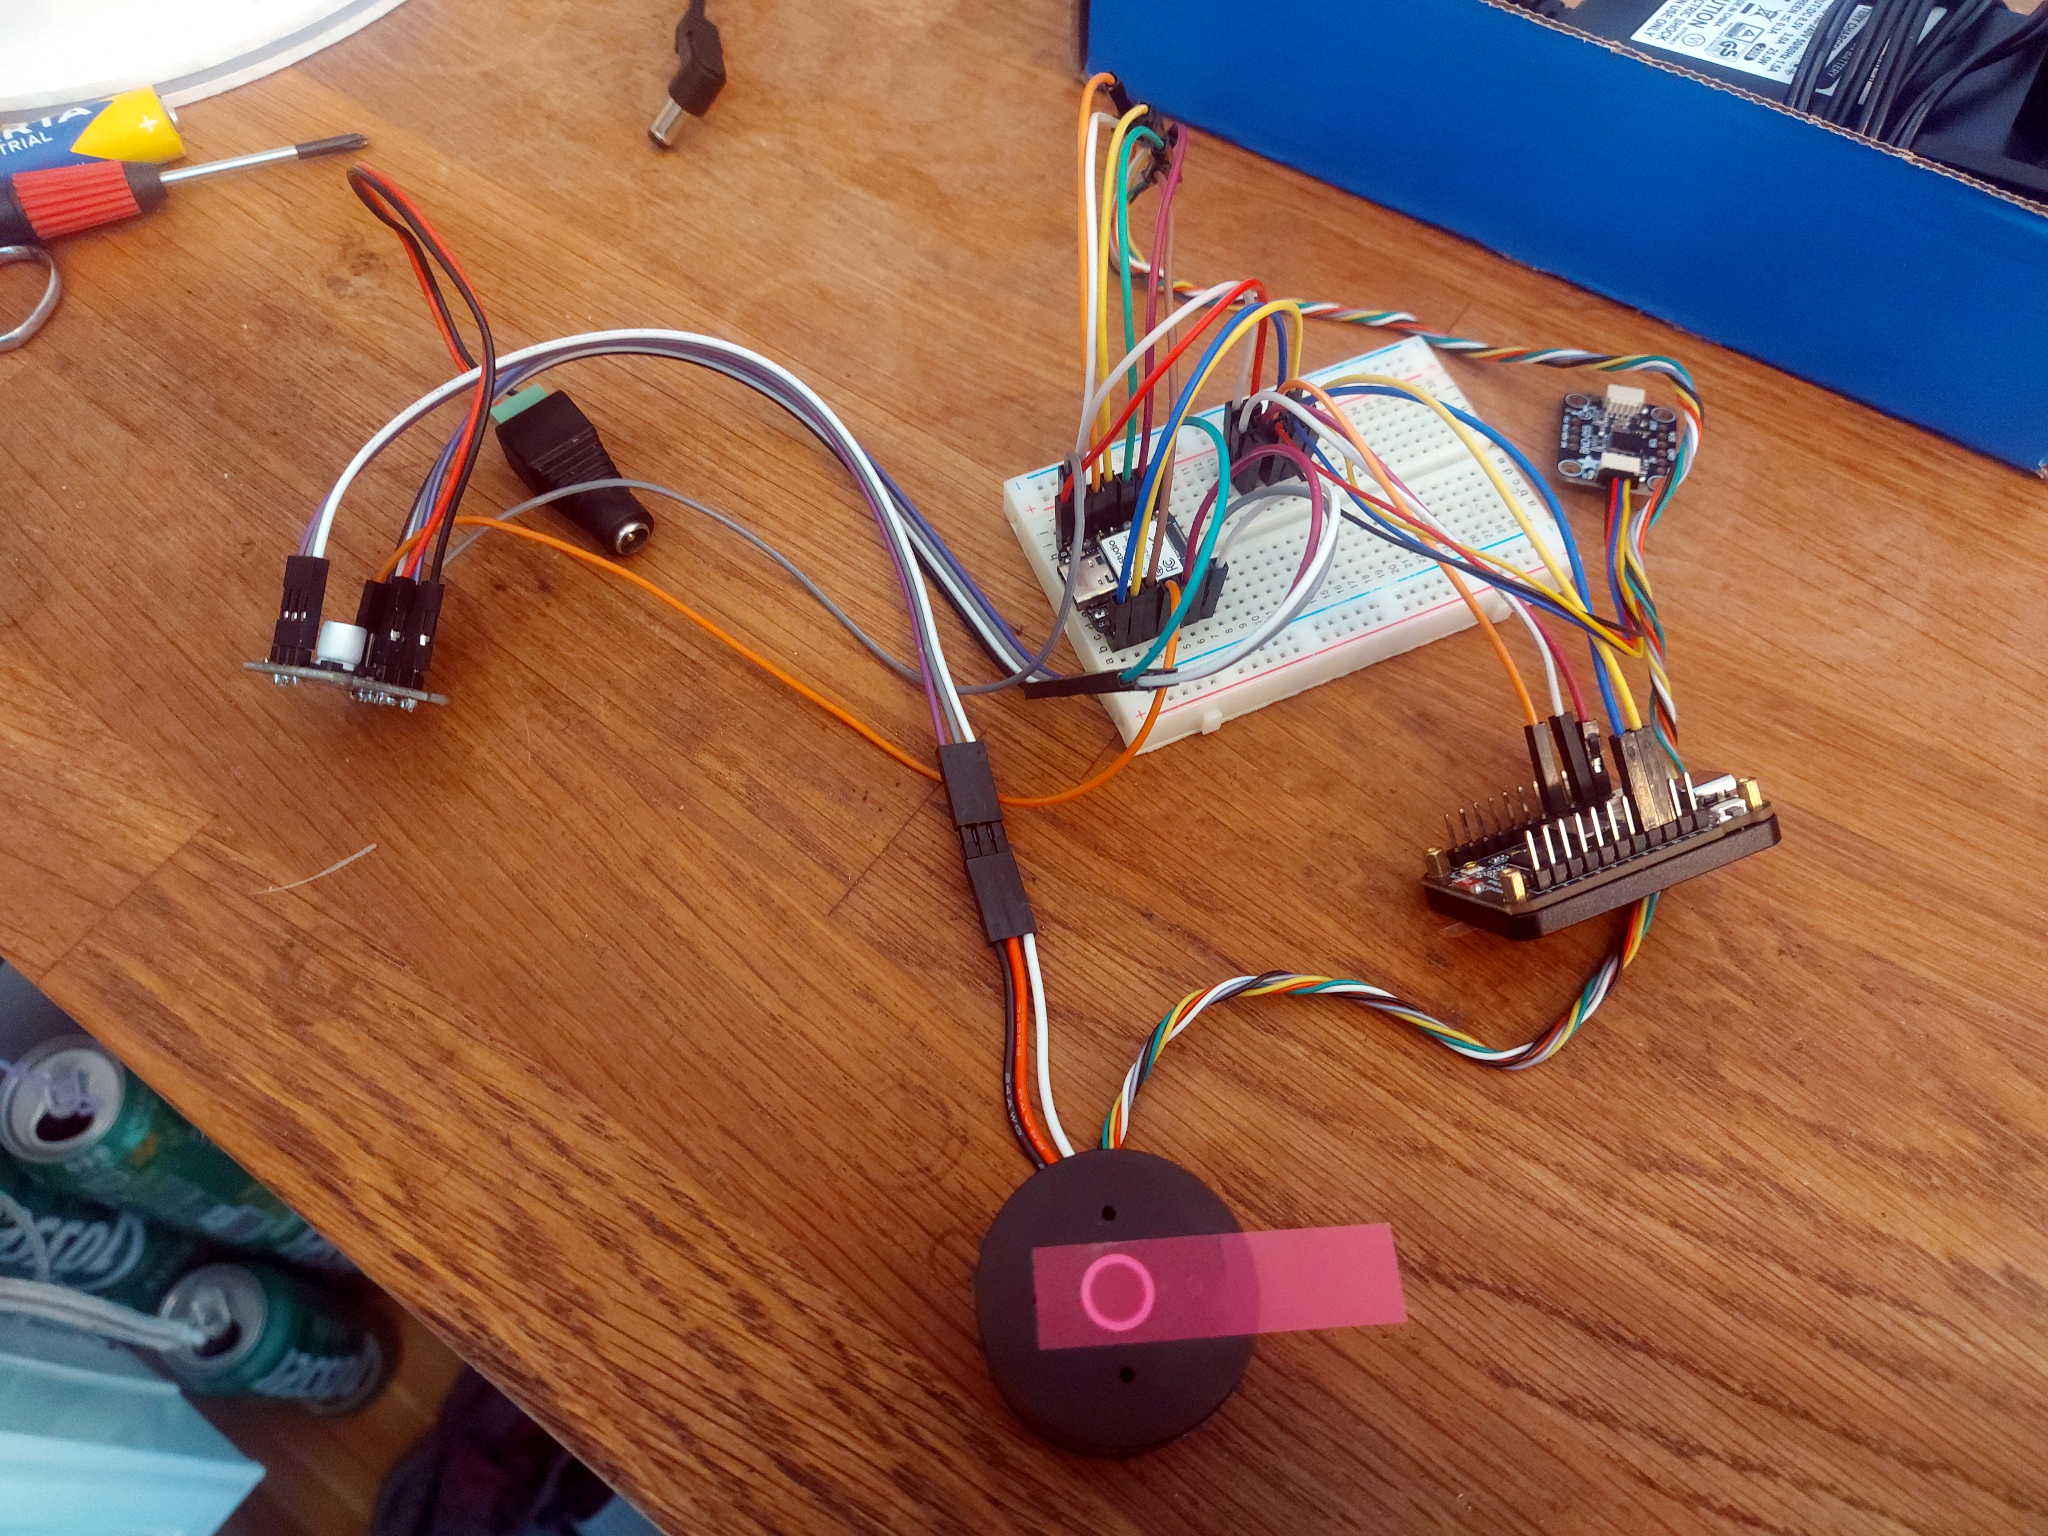
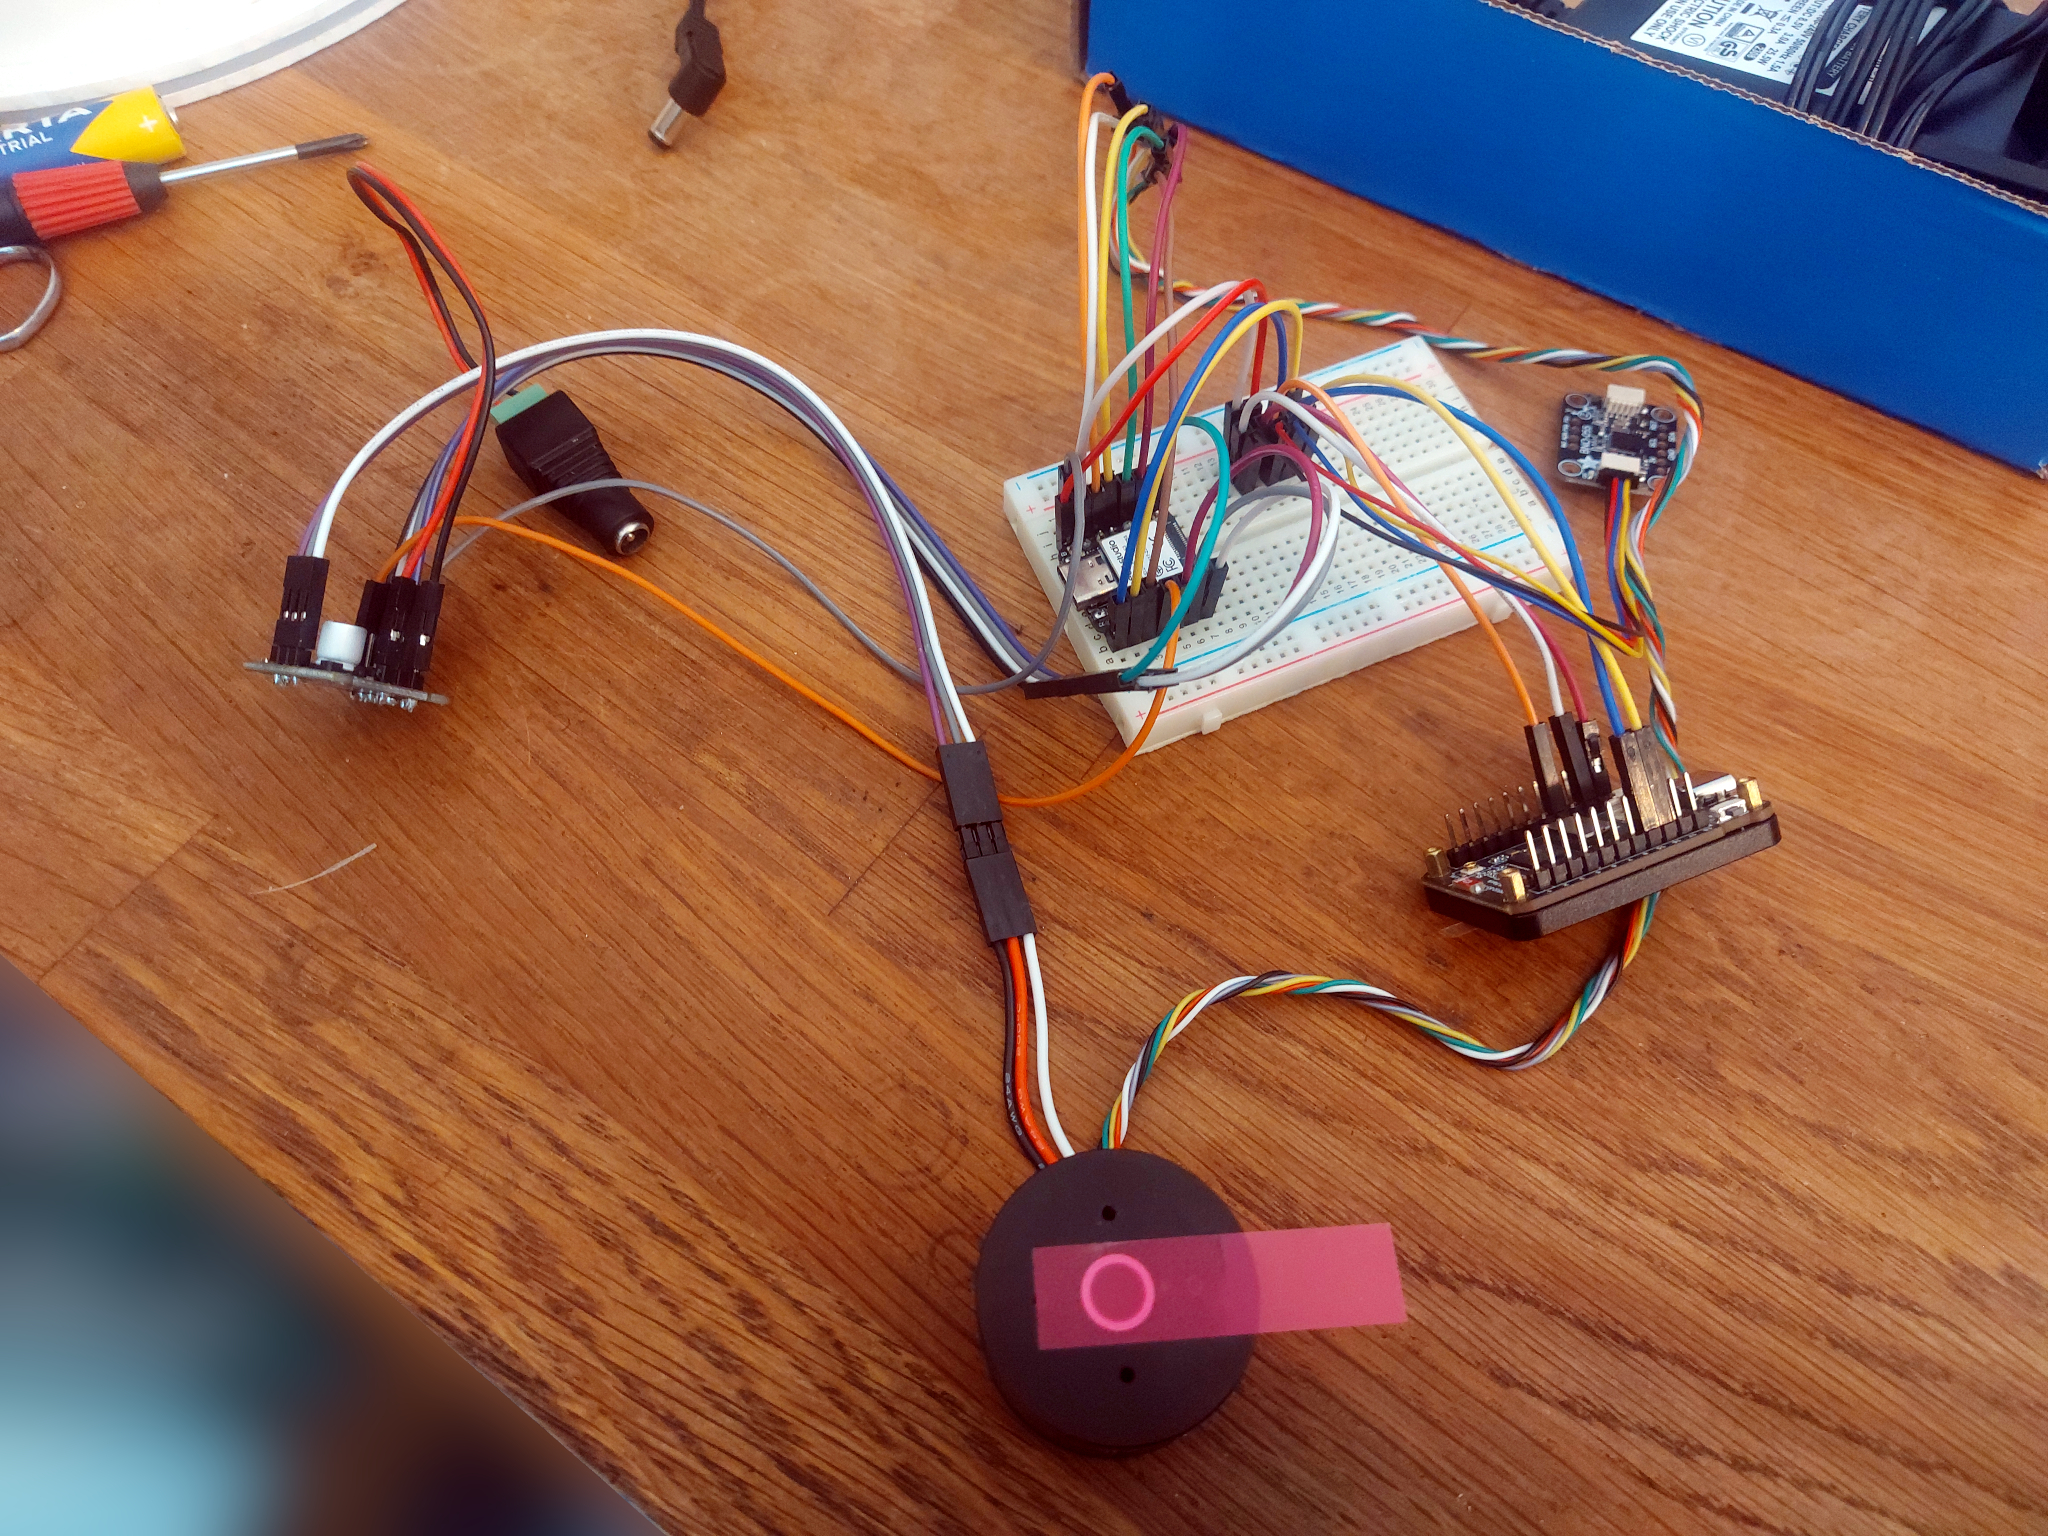
add a minimal readme

Changed region(s): [[0.0, 0.625, 0.3125, 1.0]]

diff --git a/notes.MD b/notes.MD
@@ -81,24 +81,29 @@ botland 8.5mm :: 22€ :: https://botland.de/gleitgelenke/7146-8-adriger-schleif
 
 # order
 
-- reichelt.de
-  - jst 3-pin https://www.reichelt.at/at/de/shop/produkt/jst_-_stiftleiste_90_1x3-polig_-_ph-185057
-  - jst 3-pin https://www.reichelt.at/at/de/shop/produkt/jst_-_buchsengehaeuse_1x3-polig_-_ph-185042
-  - taster a https://www.reichelt.at/at/de/shop/produkt/kurzhubtaster_printmontage_1_schliesser_3_5_x_6_x_4_3_mm-360040
-  - taster b https://www.reichelt.at/at/de/shop/produkt/kurzhubtaster_3_5x6mm_hoehe_5_0mm_1_schliesser-375532
-  - sd karte 64GB https://www.reichelt.at/at/de/shop/produkt/sdhx-speicherkarte_64gb-358253
+- mouser (ordered)
+  - adafruit power button https://www.mouser.at/de/ProductDetail/Adafruit/3104?qs=Fe2pGbCwd5c6gkNcLTXl8w%3D%3D&srsltid=AfmBOoqhgZuig5rAYAzx-hL_IUEwmz81FCs4EpL71mXRtzSOhzdhaPOD
+  - Kurzhubtaster https://www.mouser.at/de/ProductDetail/Apem/ADTS31NV?qs=iGLABakYCr%252BWGqajvikDZA%3D%3D
+  - JST PH 3 pin buchse https://www.mouser.at/de/ProductDetail/JST-Commercial/S3B-PH-K-SLFSN?qs=QpmGXVUTftHPTb%252BDMUkjfw%3D%3D
+  - JST PH 3 pin stecker https://www.mouser.at/de/ProductDetail/JST-Commercial/PHR-3?qs=uQD7XCvsSCM92rt8vZZnwg%3D%3D
+  - JST PH crimp kontakt https://www.mouser.at/de/ProductDetail/JST-Commercial/BPH-002T-P0.5S?qs=QpmGXVUTftEAmG%252BcKysqgg%3D%3D
 
-- reichelt.de (ordered) https://eur04.safelinks.protection.outlook.com/?url=https%3A%2F%2Ftracking.dpd.de%2Fparcelstatus%3Fquery%3D01287056689046&data=05%7C02%7Channes.fleischer%40vertigis.com%7C7c17430917bb4739f4a608ded840f29f%7Ced9114d4e20642bb86371112932f3d50%7C1%7C0%7C639185970608062958%7CUnknown%7CTWFpbGZsb3d8eyJFbXB0eU1hcGkiOnRydWUsIlYiOiIwLjAuMDAwMCIsIlAiOiJXaW4zMiIsIkFOIjoiTWFpbCIsIldUIjoyfQ%3D%3D%7C0%7C%7C%7C&sdata=bx%2F96%2F3kX%2BiRX02Maizv4D4iRfpFSMStrNLffbjunPU%3D&reserved=0
+- berrybase (ordered)
+  - https://www.berrybase.at/en/waveshare-esp32-s3r8-amoled-touch-display-1-64-240mhz-280x456-16mb-flash-6-achsen-imu-3-7v
+  - https://www.berrybase.at/pololu-big-pushbutton-power-switch-mit-verpolungsschutz-mp
+  - https://www.berrybase.at/sandisk-extreme-microsdxc-a2-uhs-i-u3-v30-170mb-s-speicherkarte-adapter-64gb
+
+- reichelt.de (OK)
   - jst ph stecker https://www.reichelt.at/at/de/shop/produkt/jst_-_stiftleiste_gerade_1x4-polig_-_ph-185051
   - (jst ph crimpkontakte https://www.reichelt.at/at/de/shop/produkt/jst_-_crimpkontakt_buchse_-_ph-185071)
   - kondensator https://www.reichelt.at/at/de/shop/produkt/elko_radial_100_f_35v_rm2_5_1000h_105_c_20_-42401
   - battery holders 18650
   - battery 18650
 
-- iFlight (ordered) https://iflight-europe.shipping-portal.com/tracking/?tracking_number=53201907516&country=at&postal_code=1220&utm_source=sendcloud&utm_medium=email&utm_campaign=out_for_delivery&utm_content=tracking_button
+- iFlight (OK)
   - 3 GM3506 motors (✔️ see if it works OK with the simplefoc board (assume it will then also work with the PCB3_3 board))
 
-- digikey (ordered) https://www.ups.com/track?loc=de_AT&Requester=SBN&tracknum=1Z5674320402843215&AgreeToTermsAndConditions=yes&WT.z_eCTAid=ct1_eml_Tracking__ct1_eml_tra_eml_autoship&WT.z_edatesent=07022026/trackdetails
+- digikey (OK)
   - kurzhubtaster https://www.digikey.at/en/products/detail/te-connectivity-alcoswitch-switches/1825910-6/1632536
   - kurzhubtaster https://www.digikey.at/en/products/detail/te-connectivity-alcoswitch-switches/1-1825910-4/1632539
   - mini joystick https://www.digikey.at/de/products/detail/adafruit-industries-llc/2765/6193582
@@ -120,8 +125,6 @@ botland 8.5mm :: 22€ :: https://botland.de/gleitgelenke/7146-8-adriger-schleif
   - battery (akkushop.de) :: https://www.akkuteile.de/samsung-inr18650-29e_100621_1222
   - BMS (akkushop.de) :: 30.9 x 7.9 :: https://www.akkuteile.de/schutzelektronik/s2-bms/2s-pcb-keeppower-2s-0830-schutzelektronik_200504_1410
   - ladegerät 8.4V (akkushop.de) :: https://www.akkuteile.de/fuyuang-enerpower-2s-8-4v-7-2v-17w-cccv-li-ion-ladegeraet-2a-mit-dc-plug-5-5mm-2-1mm_400613_2379
-
-- gewindebohrer M5x0.5 für mini-schalter https://www.sportoutlet24.at/Hand-Gewindebohrer-Set-Satz-2Stk-M5x05-MF-HSS-DIN13-Rechts-Rechtsgewinde
 
 # encoder cables
 

diff --git a/readme.MD b/readme.MD
@@ -1,0 +1,5 @@
+# gimbal
+
+This is a free-time project meant to extend my electronics knowledge. My ambition is to get as close as possible to a consumer device in terms of functionality and appearance.
+
+![alt text](images/gimbal_draft_01.png)